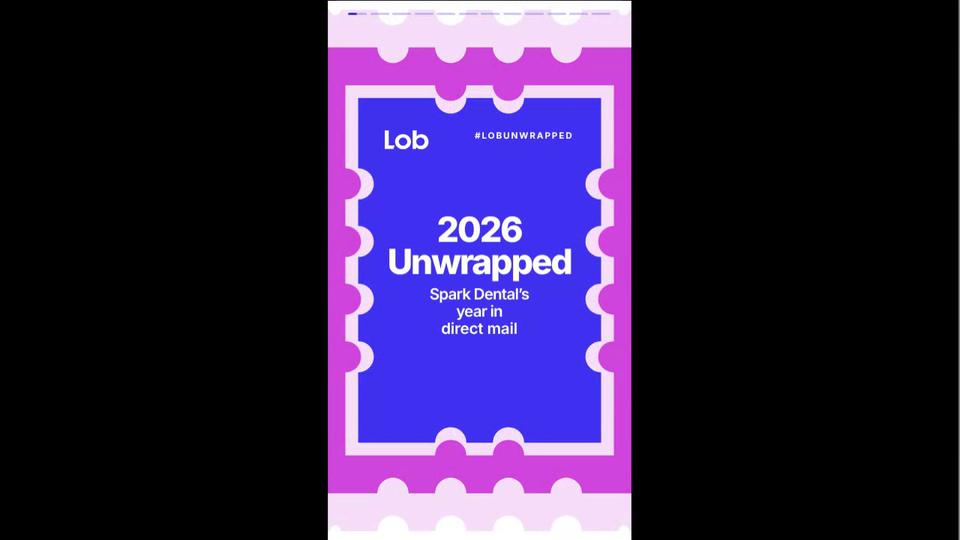
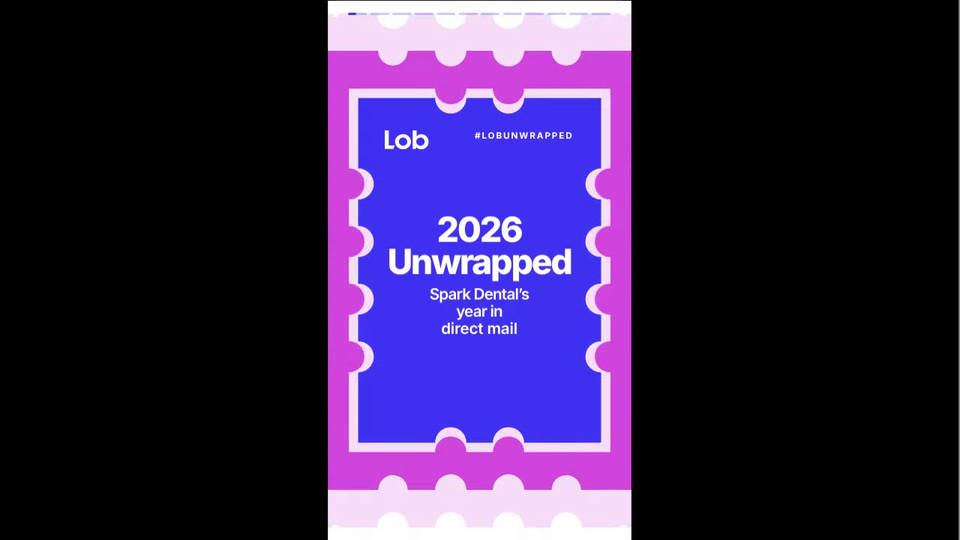
Lob Unwrapped Reel: lift lower-third visuals (#591)
* Add Lob Unwrapped Reel: standalone 9:16 reel of Lob Unwrapped

Claude-Session: https://claude.ai/code/session_01AHeBdxRVStik7dwokvTaSs

* Add sync script and rule so Lob Unwrapped Reel follows Lob Unwrapped

Claude-Session: https://claude.ai/code/session_01AHeBdxRVStik7dwokvTaSs

* Re-record Lob Unwrapped Reel clip after sync

Claude-Session: https://claude.ai/code/session_01AHeBdxRVStik7dwokvTaSs

* Sync Lob Unwrapped Reel: smaller type, visuals on the lower-third line, 3-line subtitle

Claude-Session: https://claude.ai/code/session_01AHeBdxRVStik7dwokvTaSs

* Lob Unwrapped Reel: lift lower-third visuals off the bottom edge

Claude-Session: https://claude.ai/code/session_01AHeBdxRVStik7dwokvTaSs

---------

diff --git a/lob-unwrapped-reel/index.html b/lob-unwrapped-reel/index.html
@@ -222,9 +222,9 @@ body{align-items:center}
 
 /* ---------- reel layout (generated by tools/sync-lob-reel.py) ---------- */
 @container (max-aspect-ratio:1/1){
-  .stage>*{--ah:calc(33.333cqh - var(--u)*8)}
+  .stage>*{--ah:calc(33.333cqh - var(--u)*20)}
   .in:not(.ctr):not(:has(.cswrap)){grid-template-rows:minmax(0,1fr) 33.333cqh;row-gap:0;padding-bottom:0;align-items:start}
-  .in:not(:has(.cswrap)) .art{align-self:stretch;align-items:center;justify-content:center;padding:calc(var(--u)*2) 0 calc(var(--u)*6);overflow:visible}
+  .in:not(:has(.cswrap)) .art{align-self:stretch;align-items:center;justify-content:center;padding:calc(var(--u)*1) 0 calc(var(--u)*13);overflow:visible}
   .art:not(:has(.cswrap))>.rise{height:var(--ah);display:flex;align-items:center;justify-content:center}
   .art .tun.round{width:var(--ah);height:var(--ah)}
   .art>.rise>.tun:not(.round){width:100%;height:var(--ah)}
@@ -234,7 +234,7 @@ body{align-items:center}
   .rankwrap .lead{font-size:calc(var(--u)*4.6)}
   .rank{gap:calc(var(--u)*1.4)}
   .rank .n{font-size:calc(var(--u)*6.4)}.rank .nm{font-size:calc(var(--u)*4.4)}.rank .t{height:calc(var(--u)*1.8);margin-top:calc(var(--u)*1)}
-  .in.col{justify-content:flex-start;padding-bottom:calc(var(--u)*6)}
+  .in.col:not(.ctr):not(:has(.cswrap)){justify-content:flex-start;padding-bottom:calc(var(--u)*13)}
   .in.col .mixrow{margin-top:auto;min-height:var(--ah);align-content:center}
   .k{font-size:calc(var(--u)*3.4)}
   .h,.h.sm{font-size:calc(var(--u)*8.6)}

diff --git a/tools/sync-lob-reel.py b/tools/sync-lob-reel.py
@@ -23,9 +23,9 @@ rep("'’s year in <i style=\"color:#fff\">direct mail</i>'", "'’s<br>year in<
 REEL_CSS = """
 /* ---------- reel layout (generated by tools/sync-lob-reel.py) ---------- */
 @container (max-aspect-ratio:1/1){
-  .stage>*{--ah:calc(33.333cqh - var(--u)*8)}
+  .stage>*{--ah:calc(33.333cqh - var(--u)*20)}
   .in:not(.ctr):not(:has(.cswrap)){grid-template-rows:minmax(0,1fr) 33.333cqh;row-gap:0;padding-bottom:0;align-items:start}
-  .in:not(:has(.cswrap)) .art{align-self:stretch;align-items:center;justify-content:center;padding:calc(var(--u)*2) 0 calc(var(--u)*6);overflow:visible}
+  .in:not(:has(.cswrap)) .art{align-self:stretch;align-items:center;justify-content:center;padding:calc(var(--u)*1) 0 calc(var(--u)*13);overflow:visible}
   .art:not(:has(.cswrap))>.rise{height:var(--ah);display:flex;align-items:center;justify-content:center}
   .art .tun.round{width:var(--ah);height:var(--ah)}
   .art>.rise>.tun:not(.round){width:100%;height:var(--ah)}
@@ -35,7 +35,7 @@ REEL_CSS = """
   .rankwrap .lead{font-size:calc(var(--u)*4.6)}
   .rank{gap:calc(var(--u)*1.4)}
   .rank .n{font-size:calc(var(--u)*6.4)}.rank .nm{font-size:calc(var(--u)*4.4)}.rank .t{height:calc(var(--u)*1.8);margin-top:calc(var(--u)*1)}
-  .in.col{justify-content:flex-start;padding-bottom:calc(var(--u)*6)}
+  .in.col:not(.ctr):not(:has(.cswrap)){justify-content:flex-start;padding-bottom:calc(var(--u)*13)}
   .in.col .mixrow{margin-top:auto;min-height:var(--ah);align-content:center}
   .k{font-size:calc(var(--u)*3.4)}
   .h,.h.sm{font-size:calc(var(--u)*8.6)}
